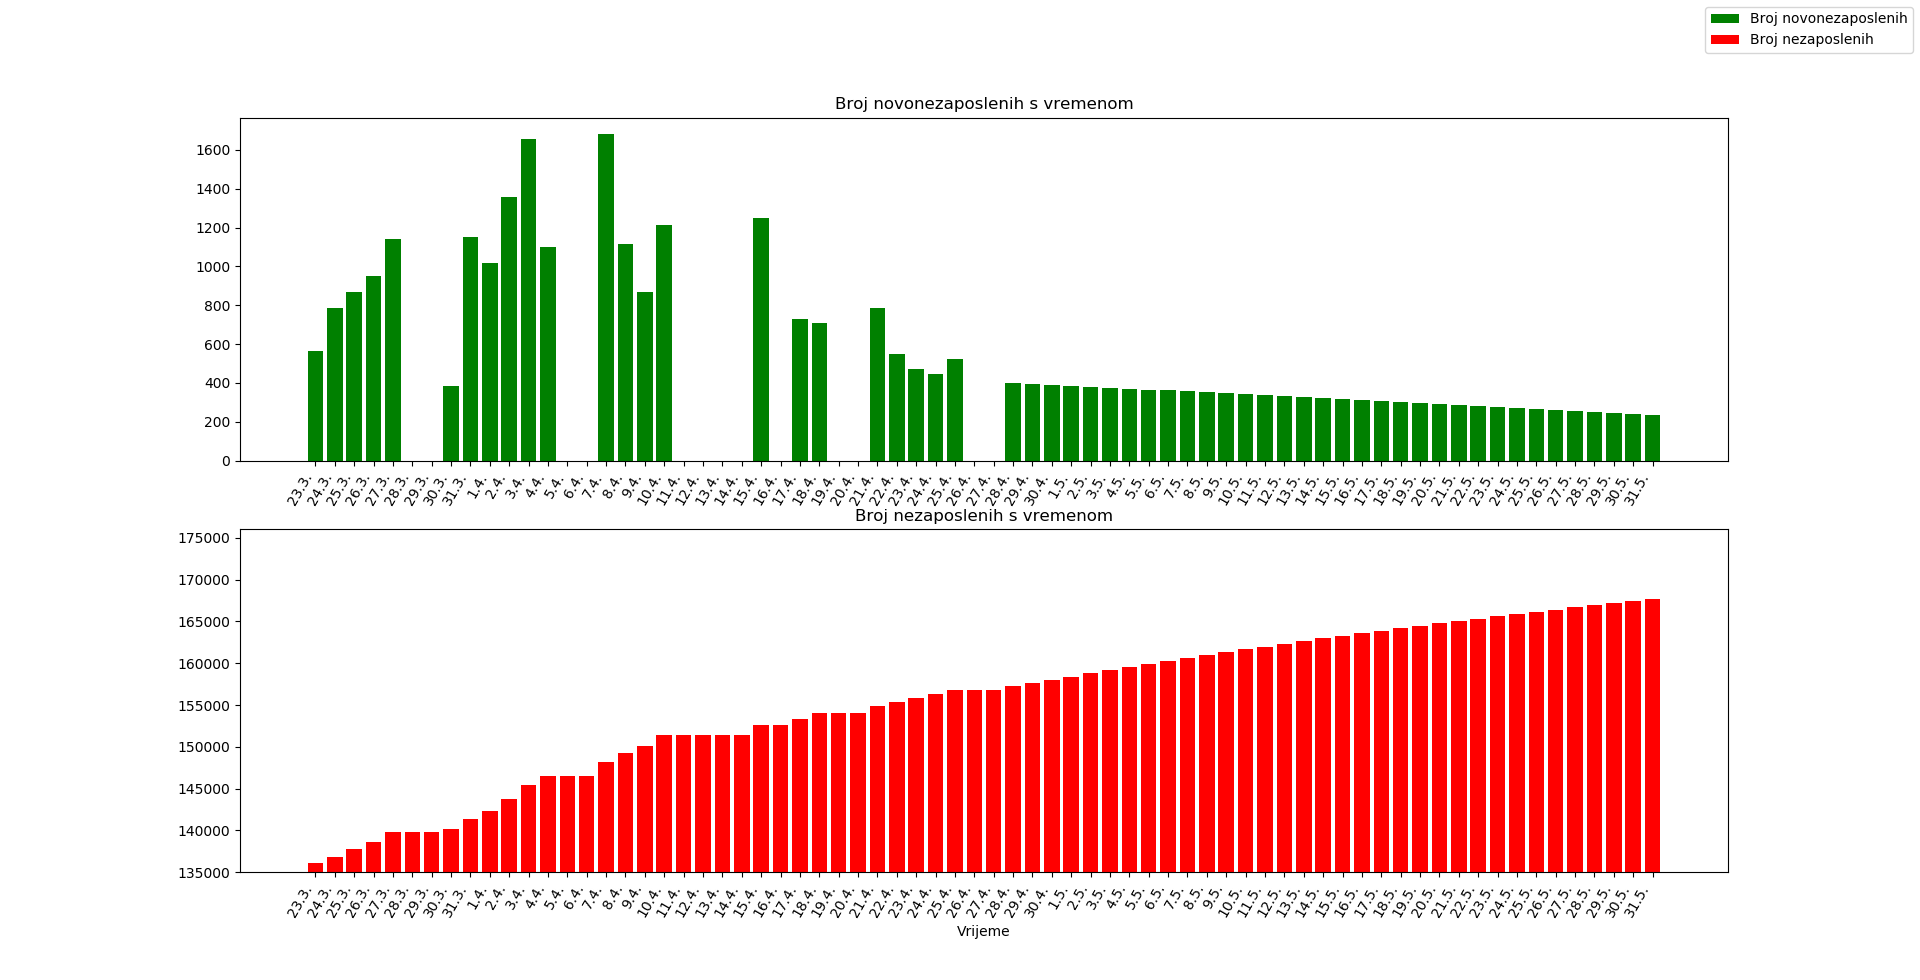
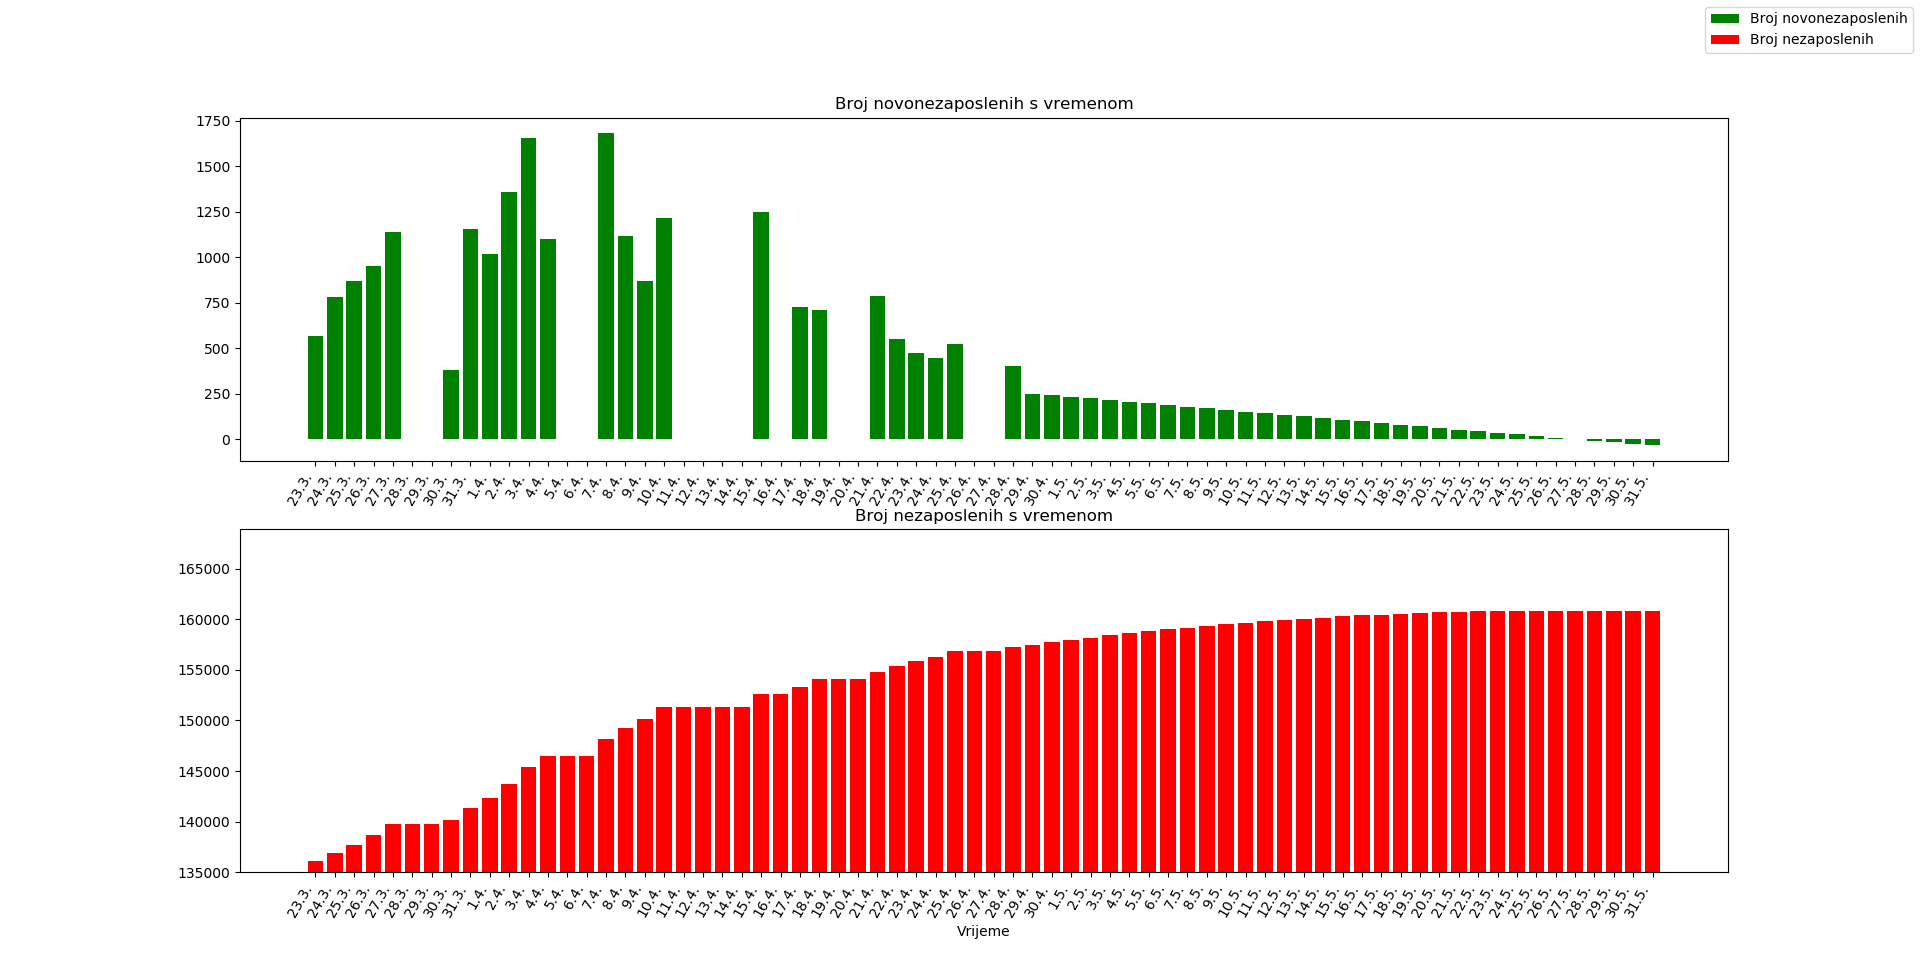
Nezaposlenost update 29.4.

diff --git a/nezaposlenost.py b/nezaposlenost.py
@@ -9,7 +9,7 @@ datumi = ['23.3.', '24.3.', '25.3.', '26.3.', '27.3.', '28.3.', '29.3.', '30.3.'
           '16.5.', '17.5.', '18.5.', '19.5.', '20.5.', '21.5.', '22.5.', '23.5.', '24.5.', '25.5.', '26.5.', '27.5.',
           '28.5.', '29.5.', '30.5.', '31.5.']
 broj_novonez = [565, 784, 867, 951, 1140, 0, 0, 382, 1153, 1019, 1358, 1658, 1098, 0, 0, 1682, 1115, 867, 1215, 0, 0, 0,
-                0, 1249, 0, 728, 711, 0, 0, 787, 550, 474, 447, 524, 0, 0, 401]
+                0, 1249, 0, 728, 711, 0, 0, 787, 550, 474, 447, 524, 0, 0, 401, 251]
 osn_broj_nez = 136071
 broj_nez = [136071]
 
